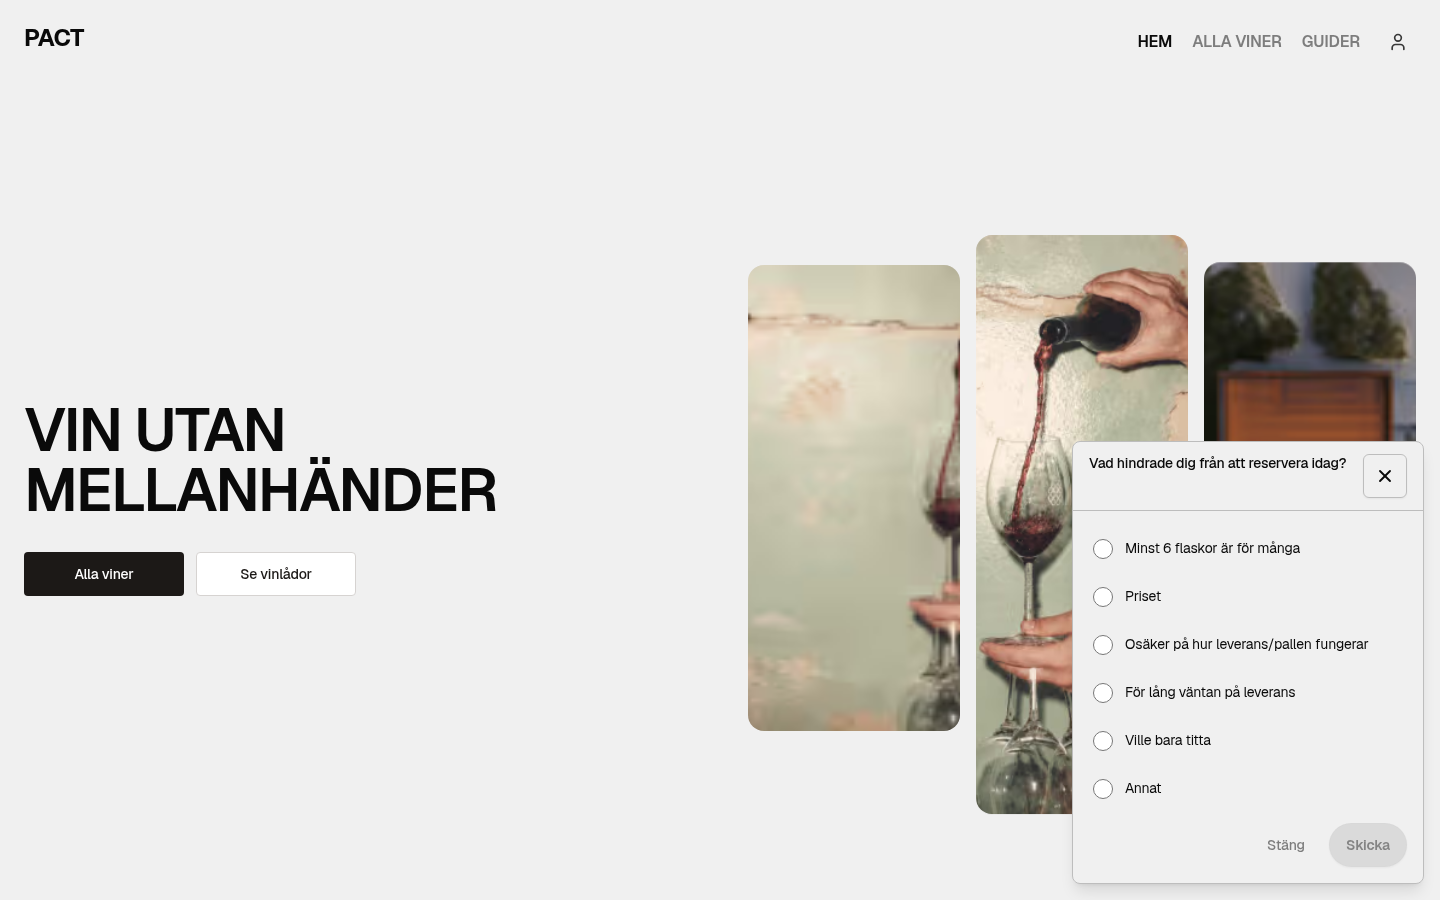
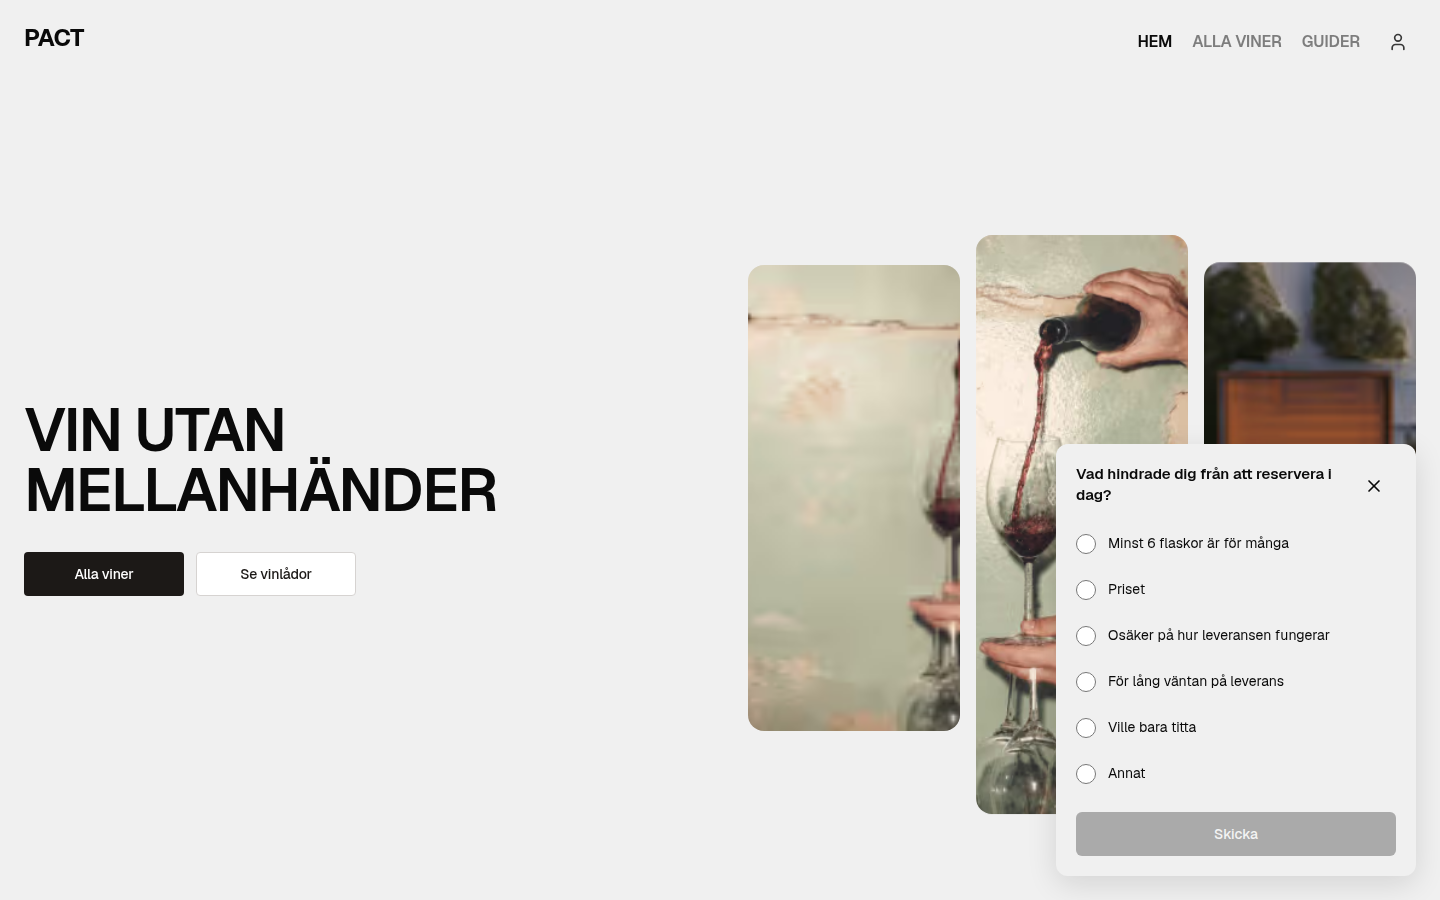
[agent] Exit feedback popup: creative-director polish
X-only close (20px icon, 44px hit), full-width Skicka styling,
typography (i dag / option sizes / #5F5F5F hint), no header divider,
mobile bottom-sheet + desktop 360px soft shadow, delivery option copy.

Changed region(s): [[0.7188, 0.4667, 0.9688, 0.9644], [0.9375, 0.5289, 0.9688, 0.56]]

diff --git a/components/analytics/exit-feedback-prompt.tsx b/components/analytics/exit-feedback-prompt.tsx
@@ -10,7 +10,6 @@ import {
 import { usePathname } from "next/navigation";
 import { X } from "lucide-react";
 import { useCartOptional } from "@/components/cart/cart-context";
-import { Button } from "@/components/ui/button";
 import { Textarea } from "@/components/ui/textarea";
 import { useB2BModeServerHint } from "@/lib/context/b2b-mode-context";
 import {
@@ -37,6 +36,9 @@ import {
 } from "@/lib/exit-discount/messages";
 
 type Phase = "feedback" | "thanks";
+
+const EXIT_FEEDBACK_HEADING =
+  "Vad hindrade dig från att reservera i dag?";
 
 function isCoarsePointer(): boolean {
   if (typeof window === "undefined") return false;
@@ -314,13 +316,12 @@ export function ExitFeedbackPrompt() {
   if (isB2B || !open) return null;
 
   const title =
-    phase === "feedback"
-      ? "Vad hindrade dig från att reservera idag?"
-      : EXIT_FEEDBACK_THANKS_MESSAGE;
+    phase === "feedback" ? EXIT_FEEDBACK_HEADING : EXIT_FEEDBACK_THANKS_MESSAGE;
+  const canSubmit = Boolean(reason) && !submitting;
 
   return (
     <div
-      className="fixed inset-0 z-[60] flex items-end justify-center bg-background/40 sm:items-end sm:justify-end sm:bg-transparent sm:p-4"
+      className="fixed inset-0 z-[60] flex items-end justify-center bg-background/40 sm:items-end sm:justify-end sm:bg-transparent sm:pb-6 sm:pr-6"
       onPointerDown={onBackdropPointerDown}
       data-exit-prompt-backdrop=""
     >
@@ -329,14 +330,14 @@ export function ExitFeedbackPrompt() {
         aria-modal="true"
         aria-labelledby="exit-prompt-title"
         data-exit-prompt-panel=""
-        className="inset-x-0 bottom-0 flex max-h-[min(85dvh,36rem)] w-full max-w-none flex-col overflow-hidden rounded-t-xl border border-border bg-background shadow-lg sm:mb-0 sm:max-w-[22rem] sm:rounded-lg"
+        className="inset-x-0 bottom-0 flex max-h-[min(85dvh,36rem)] w-full max-w-none flex-col overflow-hidden rounded-t-[12px] border-0 bg-background shadow-none sm:mb-0 sm:w-[360px] sm:max-w-[360px] sm:rounded-[12px] sm:shadow-[0_8px_30px_rgba(0,0,0,0.12)]"
         onPointerDown={(e) => e.stopPropagation()}
       >
-        <div className="flex shrink-0 items-start justify-between gap-2 border-b border-border px-4 pb-3 pt-3">
+        <div className="flex shrink-0 items-start justify-between gap-2 px-5 pt-5">
           <div className="min-w-0 flex-1 pr-2">
             <p
               id="exit-prompt-title"
-              className="text-sm font-medium leading-snug text-foreground"
+              className="text-[16px] font-semibold leading-snug text-foreground sm:text-[15px]"
             >
               {title}
             </p>
@@ -348,23 +349,23 @@ export function ExitFeedbackPrompt() {
                 ? () => void finishFeedback(false)
                 : closeAll
             }
-            className="inline-flex h-11 w-11 min-h-[44px] min-w-[44px] shrink-0 items-center justify-center rounded-md border border-border bg-background text-foreground shadow-sm transition-colors hover:bg-muted focus-visible:outline-none focus-visible:ring-2 focus-visible:ring-ring"
+            className="inline-flex h-11 w-11 min-h-[44px] min-w-[44px] shrink-0 items-center justify-center border-0 bg-transparent p-0 text-foreground shadow-none transition-opacity hover:opacity-70 focus-visible:outline-none focus-visible:ring-2 focus-visible:ring-ring"
             aria-label="Stäng"
             data-exit-prompt-close=""
           >
-            <X className="h-5 w-5" strokeWidth={2.25} aria-hidden />
+            <X className="h-5 w-5" strokeWidth={2} aria-hidden />
           </button>
         </div>
 
-        <div className="min-h-0 flex-1 overflow-y-auto overscroll-contain px-4 py-3">
+        <div className="min-h-0 flex-1 overflow-y-auto overscroll-contain px-5 pb-5 pt-3">
           {phase === "feedback" && step ? (
             <>
-              <fieldset className="mb-3 space-y-1">
+              <fieldset className="mb-4 space-y-0.5">
                 <legend className="sr-only">Välj anledning</legend>
                 {EXIT_FEEDBACK_REASON_OPTIONS.map((opt) => (
                   <label
                     key={opt.value}
-                    className="flex min-h-11 cursor-pointer items-center gap-3 rounded-md px-1 py-2 text-sm text-foreground"
+                    className="flex min-h-11 cursor-pointer items-center gap-3 rounded-md py-2 text-[15px] text-foreground sm:text-[14px]"
                   >
                     <input
                       type="radio"
@@ -380,7 +381,7 @@ export function ExitFeedbackPrompt() {
               </fieldset>
 
               {reason === "other" ? (
-                <div className="mb-3">
+                <div className="mb-4">
                   <Textarea
                     value={answer}
                     onChange={(e) =>
@@ -398,7 +399,7 @@ export function ExitFeedbackPrompt() {
                   />
                   <p
                     id="exit-feedback-privacy-helper"
-                    className="mt-1.5 text-xs leading-snug text-muted-foreground"
+                    className="mt-1.5 text-[12px] leading-snug text-[#5F5F5F]"
                     data-exit-prompt-privacy-helper=""
                   >
                     {EXIT_FEEDBACK_PRIVACY_HELPER}
@@ -406,30 +407,20 @@ export function ExitFeedbackPrompt() {
                 </div>
               ) : null}
 
-              <div className="flex items-center justify-end gap-2 pb-1">
-                <Button
-                  type="button"
-                  variant="ghost"
-                  className="min-h-11 px-4"
-                  onClick={() => void finishFeedback(false)}
-                  disabled={submitting}
-                >
-                  Stäng
-                </Button>
-                <Button
-                  type="button"
-                  className="min-h-11 px-4"
-                  onClick={() => void finishFeedback(true)}
-                  disabled={submitting || !reason}
-                >
-                  Skicka
-                </Button>
-              </div>
+              <button
+                type="button"
+                onClick={() => void finishFeedback(true)}
+                disabled={!canSubmit}
+                className="h-11 min-h-[44px] w-full rounded-[6px] bg-[#0A0A0A] text-[15px] font-medium text-white transition-opacity disabled:cursor-not-allowed disabled:opacity-30 sm:text-[14px]"
+                data-exit-prompt-submit=""
+              >
+                Skicka
+              </button>
             </>
           ) : null}
 
           {phase === "thanks" ? (
-            <p className="pb-2 text-sm leading-snug text-muted-foreground">
+            <p className="pb-1 text-[15px] leading-snug text-[#5F5F5F] sm:text-[14px]">
               {EXIT_FEEDBACK_THANKS_BODY}
             </p>
           ) : null}

diff --git a/lib/analytics/__tests__/exit-feedback.test.ts b/lib/analytics/__tests__/exit-feedback.test.ts
@@ -307,6 +307,10 @@ describe("exit-feedback helpers", () => {
     expect(EXIT_FEEDBACK_REASONS).toHaveLength(6);
     expect(EXIT_FEEDBACK_REASON_OPTIONS).toHaveLength(6);
     expect(isExitFeedbackReason("price")).toBe(true);
+    expect(
+      EXIT_FEEDBACK_REASON_OPTIONS.find((o) => o.value === "delivery_unclear")
+        ?.label,
+    ).toBe("Osäker på hur leveransen fungerar");
     expect(EXIT_FEEDBACK_PRIVACY_HELPER).toBe("Skriv inte personuppgifter här.");
   });
 });

diff --git a/lib/analytics/exit-feedback.ts b/lib/analytics/exit-feedback.ts
@@ -50,7 +50,7 @@ export const EXIT_FEEDBACK_REASON_OPTIONS: ReadonlyArray<{
   { value: "price", label: "Priset" },
   {
     value: "delivery_unclear",
-    label: "Osäker på hur leverans/pallen fungerar",
+    label: "Osäker på hur leveransen fungerar",
   },
   { value: "wait_too_long", label: "För lång väntan på leverans" },
   { value: "just_browsing", label: "Ville bara titta" },
